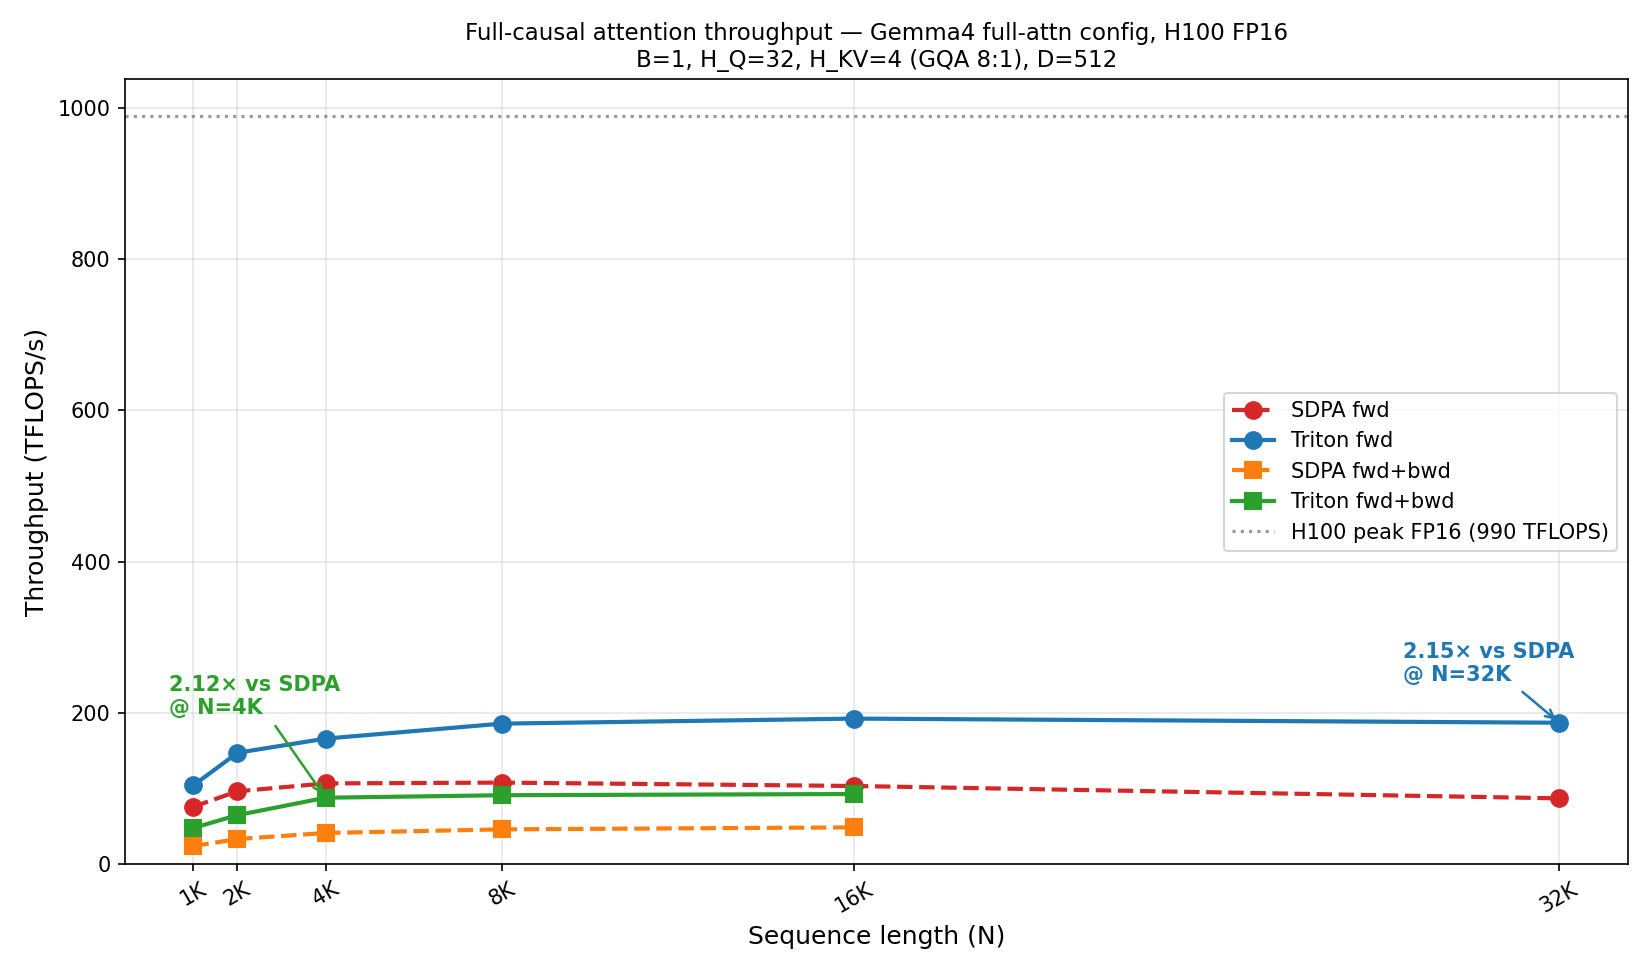
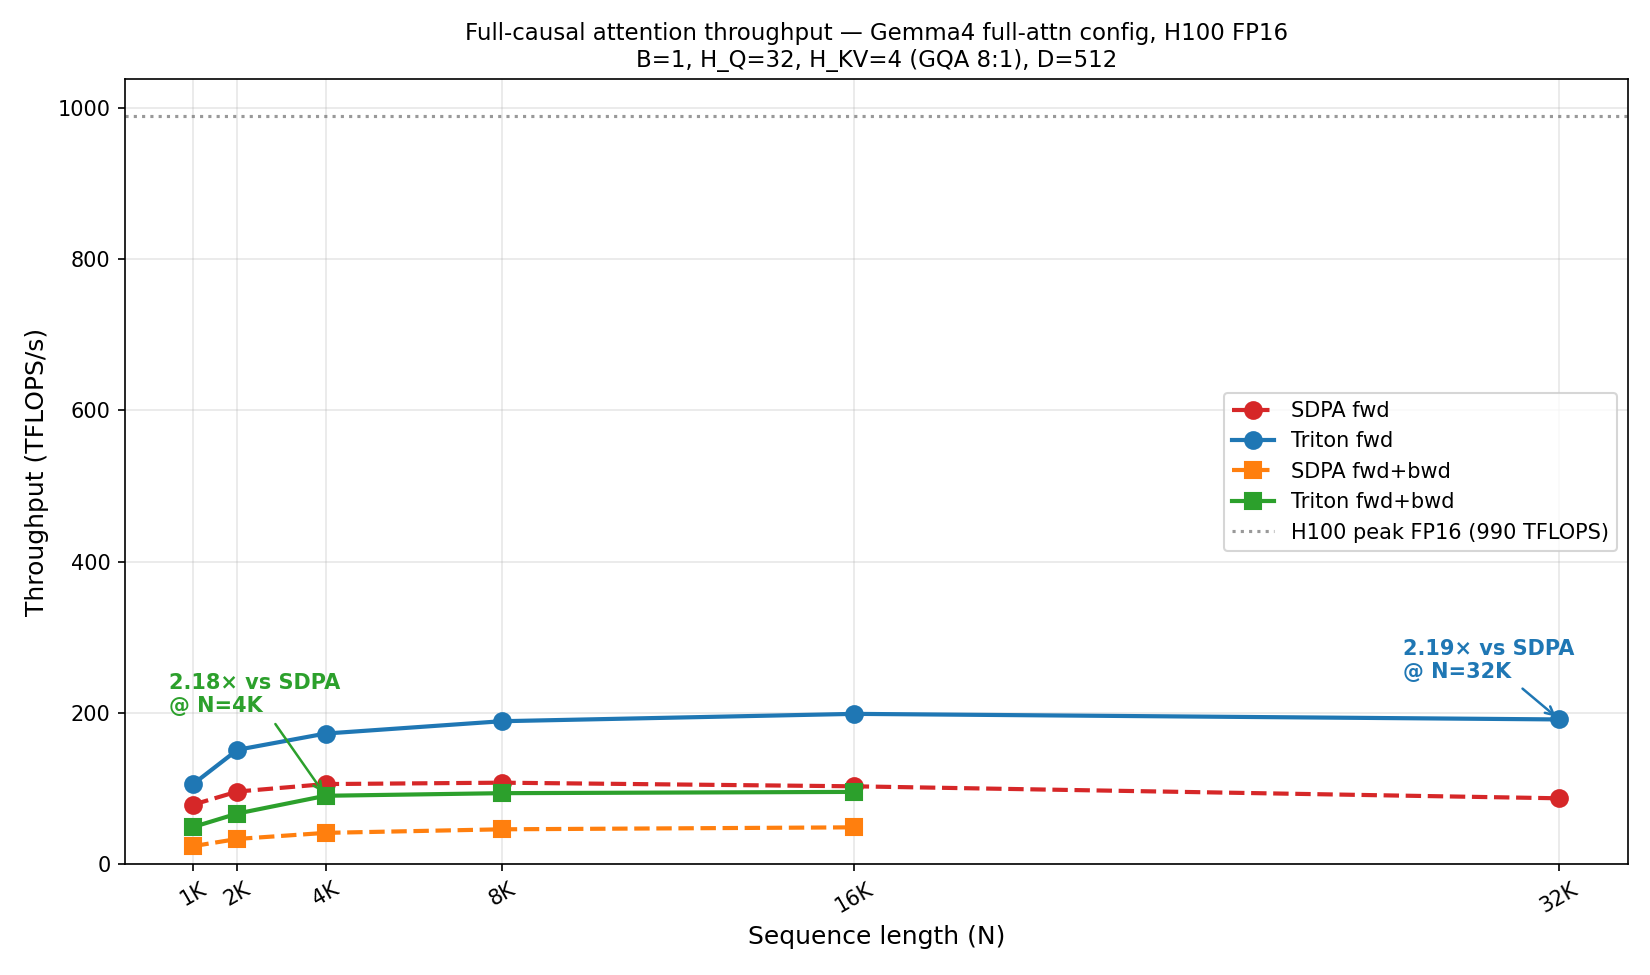
update

Changed region(s): [[0.1545, 0.6462, 0.9582, 0.7692], [0.1236, 0.7692, 0.5255, 0.8308], [0.0927, 0.6769, 0.2164, 0.7385]]

diff --git a/flash_attn/attention.py b/flash_attn/attention.py
@@ -281,55 +281,71 @@ def _flash_attn_gqa_kernel(
     d_range = tl.arange(0, HEAD_DIM)
 
     # Determine KV iteration range.
-    # IS_CAUSAL: iterate up to the last Q position in this block.
-    # SLIDE_SIZE: skip KV blocks entirely outside the attention window.
     if IS_CAUSAL:
         kv_end = (q_block_idx + 1) * BLOCK_Q
     else:
         kv_end = SEQ_LEN
 
     if IS_CAUSAL and SLIDE_SIZE > 0:
-        # Earliest KV position any query in this Q block can attend to:
-        #   q_min = q_block_idx * BLOCK_Q
-        #   kv_min = q_min - SLIDE_SIZE + 1
-        # Clamp to 0 before rounding down to block boundary.
         kv_min = tl.maximum(0, q_block_idx * BLOCK_Q - SLIDE_SIZE + 1)
         kv_loop_start = (kv_min // BLOCK_KV) * BLOCK_KV
     else:
         kv_loop_start = 0
 
-    # Accumulators for online softmax
+    LOG2E: tl.constexpr = 1.4426950408889634
+    scale_log2e = scale * LOG2E
+
     m_i = tl.full([BLOCK_Q], value=-float("inf"), dtype=tl.float32)
     l_i = tl.zeros([BLOCK_Q], dtype=tl.float32)
     acc = tl.zeros([BLOCK_Q, HEAD_DIM], dtype=tl.float32)
 
-    # Iterate over KV blocks
-    for kv_start in range(kv_loop_start, kv_end, BLOCK_KV):
+    # For causal without SWA, split the KV loop into an unmasked off-diagonal
+    # phase (queries all see all keys in block) and a masked diagonal phase.
+    # FA2/FA3 use the same pattern. At HEAD_DIM=512 the register pressure from
+    # the two-loop code makes this a net loss (matmul already dominates, mask
+    # overhead is negligible), so skip the split there.
+    USE_SPLIT: tl.constexpr = (HEAD_DIM < 512)
+    if IS_CAUSAL and SLIDE_SIZE == 0 and USE_SPLIT:
+        kv_end_unmasked = (q_block_idx * BLOCK_Q) // BLOCK_KV * BLOCK_KV
+    else:
+        kv_end_unmasked = kv_loop_start  # skip unmasked phase
+
+    # Phase 1: unmasked KV iterations (off-diagonal, dense) — no mask op.
+    for kv_start in range(kv_loop_start, kv_end_unmasked, BLOCK_KV):
+        kv_offsets = kv_start + tl.arange(0, BLOCK_KV)
+        q_ptrs = q_base + q_offsets[:, None] * stride_qn + d_range[None, :] * stride_qd
+        q_chunk = tl.load(q_ptrs, mask=q_mask[:, None], other=0.0)
+        k_ptrs = k_base + kv_offsets[:, None] * stride_kn + d_range[None, :] * stride_kd
+        k_chunk = tl.load(k_ptrs)
+        scores = tl.dot(q_chunk, tl.trans(k_chunk)) * scale_log2e
+
+        block_max = tl.max(scores, axis=1)
+        new_max = tl.maximum(m_i, block_max)
+        alpha = tl.math.exp2(m_i - new_max)
+        p = tl.math.exp2(scores - new_max[:, None])
+
+        l_i = l_i * alpha + tl.sum(p, axis=1)
+        acc = acc * alpha[:, None]
+
+        v_ptrs = v_base + kv_offsets[:, None] * stride_vn + d_range[None, :] * stride_vd
+        v_block = tl.load(v_ptrs)
+        acc += tl.dot(p.to(v_block.dtype), v_block)
+
+        m_i = new_max
+
+    # Phase 2: masked KV iterations (diagonal + seq boundary + SWA).
+    for kv_start in range(kv_end_unmasked, kv_end, BLOCK_KV):
         kv_offsets = kv_start + tl.arange(0, BLOCK_KV)
         kv_mask = kv_offsets < SEQ_LEN
 
-        # --- Score computation: tile over HEAD_DIM in BLOCK_D chunks ---
-        # Loads Q and K in (*, BLOCK_D) chunks so they are never fully
-        # materialised together — peak register pressure stays bounded.
-        scores = tl.zeros([BLOCK_Q, BLOCK_KV], dtype=tl.float32)
-        for d_start in range(0, HEAD_DIM, BLOCK_D):
-            d_offs = d_start + tl.arange(0, BLOCK_D)
-            q_chunk = tl.load(
-                q_base + q_offsets[:, None] * stride_qn + d_offs[None, :] * stride_qd,
-                mask=q_mask[:, None], other=0.0,
-            )
-            k_chunk = tl.load(
-                k_base + kv_offsets[:, None] * stride_kn + d_offs[None, :] * stride_kd,
-                mask=kv_mask[:, None], other=0.0,
-            )
-            scores += tl.dot(q_chunk, tl.trans(k_chunk))
+        q_ptrs = q_base + q_offsets[:, None] * stride_qn + d_range[None, :] * stride_qd
+        q_chunk = tl.load(q_ptrs, mask=q_mask[:, None], other=0.0)
+        k_ptrs = k_base + kv_offsets[:, None] * stride_kn + d_range[None, :] * stride_kd
+        k_chunk = tl.load(k_ptrs, mask=kv_mask[:, None], other=0.0)
+        scores = tl.dot(q_chunk, tl.trans(k_chunk)) * scale_log2e
 
-        scores *= scale
-
-        # Mask: sequence boundary + optional causal + optional sliding window
         if IS_CAUSAL:
             if SLIDE_SIZE > 0:
-                # Causal + sliding window: j <= q_i AND q_i - j < SLIDE_SIZE
                 valid = (kv_offsets[None, :] <= q_offsets[:, None]) & \
                         (q_offsets[:, None] - kv_offsets[None, :] < SLIDE_SIZE) & \
                         kv_mask[None, :]
@@ -339,41 +355,35 @@ def _flash_attn_gqa_kernel(
             valid = kv_mask[None, :]
         scores = tl.where(valid, scores, -float("inf"))
 
-        # --- Online softmax update ---
         block_max = tl.max(scores, axis=1)
         new_max = tl.maximum(m_i, block_max)
         if SLIDE_SIZE > 0:
-            # SWA: a KV block can be fully outside the window for some Q rows
-            # while m_i is still -inf (no valid KV seen yet). Without clamp,
-            # exp(-inf - (-inf)) = exp(nan) = nan pollutes acc.
-            alpha = tl.exp(tl.maximum(m_i, -1e20) - tl.maximum(new_max, -1e20))
-            p = tl.exp(scores - tl.maximum(new_max, -1e20)[:, None])
+            safe_new = tl.maximum(new_max, -1e20)
+            alpha = tl.math.exp2(tl.maximum(m_i, -1e20) - safe_new)
+            p = tl.math.exp2(scores - safe_new[:, None])
         else:
-            # Full / causal: KV loop iterates monotonically from 0, every Q row
-            # sees valid KV on the first iteration, so m_i finite after step 1.
-            alpha = tl.exp(m_i - new_max)
-            p = tl.exp(scores - new_max[:, None])
+            alpha = tl.math.exp2(m_i - new_max)
+            p = tl.math.exp2(scores - new_max[:, None])
 
         l_i = l_i * alpha + tl.sum(p, axis=1)
         acc = acc * alpha[:, None]
 
-        # --- V accumulation: full HEAD_DIM load ---
         v_ptrs = v_base + kv_offsets[:, None] * stride_vn + d_range[None, :] * stride_vd
         v_block = tl.load(v_ptrs, mask=kv_mask[:, None], other=0.0)
         acc += tl.dot(p.to(v_block.dtype), v_block)
 
         m_i = new_max
 
-    # Final normalization
     acc = acc / l_i[:, None]
 
-    # Store output
     o_ptrs = o_base + q_offsets[:, None] * stride_on + d_range[None, :] * stride_od
     tl.store(o_ptrs, acc, mask=q_mask[:, None])
 
-    # Store logsumexp for backward pass
+    # Convert LSE back to natural-log domain for bwd consumption: m_i is log2,
+    # so lse_natural = m_i * ln(2) + ln(l_i).
     if STORE_LSE:
-        lse = m_i + tl.log(l_i)
+        LN2: tl.constexpr = 0.6931471805599453
+        lse = m_i * LN2 + tl.log(l_i)
         lse_ptrs = LSE_ptr + b_idx * stride_lseb + q_h_idx * stride_lseh + q_offsets * stride_lsen
         tl.store(lse_ptrs, lse, mask=q_mask)
 
@@ -734,18 +744,21 @@ def _flash_attn_gqa_bwd_dq_kernel(
 
     dq_acc = tl.zeros([BLOCK_Q, HEAD_DIM], dtype=tl.float32)
 
+    # Convert LSE to log2 domain once so we can use tl.math.exp2 inside the loop.
+    LOG2E: tl.constexpr = 1.4426950408889634
+    scale_log2e = scale * LOG2E
+    lse_log2 = lse * LOG2E
+
     for kv_start in range(kv_loop_start, kv_end, BLOCK_KV):
         kv_offsets = kv_start + tl.arange(0, BLOCK_KV)
         kv_mask = kv_offsets < SEQ_LEN
 
-        # Load K, V
         k_ptrs = k_base + kv_offsets[:, None] * stride_kn + d_range[None, :] * stride_kd
         k_block = tl.load(k_ptrs, mask=kv_mask[:, None], other=0.0)
         v_ptrs = v_base + kv_offsets[:, None] * stride_vn + d_range[None, :] * stride_vd
         v_block = tl.load(v_ptrs, mask=kv_mask[:, None], other=0.0)
 
-        # Recompute scores and attention weights
-        scores = tl.dot(q_block, tl.trans(k_block)).to(tl.float32) * scale
+        scores = tl.dot(q_block, tl.trans(k_block)).to(tl.float32) * scale_log2e
         if IS_CAUSAL:
             if SLIDE_SIZE > 0:
                 valid = (kv_offsets[None, :] <= q_offsets[:, None]) & \
@@ -756,15 +769,12 @@ def _flash_attn_gqa_bwd_dq_kernel(
         else:
             valid = kv_mask[None, :]
         scores = tl.where(valid, scores, -float("inf"))
-        p = tl.exp(scores - lse[:, None])
+        p = tl.math.exp2(scores - lse_log2[:, None])
 
-        # dP = dO @ V^T
         dp = tl.dot(do_block, tl.trans(v_block)).to(tl.float32)
-        # dS = P * (dP - D)
         ds = p * (dp - delta[:, None])
         ds = tl.where(valid, ds, 0.0)
 
-        # dQ += scale * dS @ K
         dq_acc += tl.dot(ds.to(k_block.dtype), k_block).to(tl.float32)
 
     dq_acc *= scale
@@ -1100,6 +1110,9 @@ def _flash_attn_gqa_bwd_dkv_packed_kernel(
     dk_acc = tl.zeros([BLOCK_KV, HEAD_DIM], dtype=tl.float32)
     dv_acc = tl.zeros([BLOCK_KV, HEAD_DIM], dtype=tl.float32)
 
+    LOG2E: tl.constexpr = 1.4426950408889634
+    scale_log2e = scale * LOG2E
+
     # Q iteration bounds (same as split kernel — derived from KV block position)
     if IS_CAUSAL:
         q_start = (kv_block_idx * BLOCK_KV // BLOCK_Q) * BLOCK_Q
@@ -1134,8 +1147,9 @@ def _flash_attn_gqa_bwd_dkv_packed_kernel(
             do_block = tl.load(do_ptrs, mask=q_mask_local[:, None], other=0.0)
             lse = tl.load(lse_base + q_offsets * stride_lsen, mask=q_mask_local, other=0.0)
             delta = tl.load(delta_base + q_offsets * stride_dn, mask=q_mask_local, other=0.0)
+            lse_log2 = lse * LOG2E
 
-            scores = tl.dot(q_block, tl.trans(k_block)).to(tl.float32) * scale
+            scores = tl.dot(q_block, tl.trans(k_block)).to(tl.float32) * scale_log2e
             if IS_CAUSAL:
                 if SLIDE_SIZE > 0:
                     valid = (kv_offsets[None, :] <= q_offsets[:, None]) & \
@@ -1147,7 +1161,7 @@ def _flash_attn_gqa_bwd_dkv_packed_kernel(
             else:
                 valid = kv_mask[None, :] & q_mask_local[:, None]
             scores = tl.where(valid, scores, -float("inf"))
-            p = tl.exp(scores - lse[:, None])
+            p = tl.math.exp2(scores - lse_log2[:, None])
 
             dv_acc += tl.dot(tl.trans(p.to(do_block.dtype)), do_block).to(tl.float32)
 

diff --git a/docs/optimization_notes.md b/docs/optimization_notes.md
@@ -1,11 +1,69 @@
 # Optimization notes
 
 This document records the optimization strategies that were implemented and
-measured. One ("pack-GQA dKV") succeeded and is now the default backward
-path; two others ("multi-head fusion fwd", "atomic fused bwd") turned out
-worse than the baseline and are kept in source only as cautionary reference.
+measured. Wins that shipped: pack-GQA dKV kernel, softmax `exp2`, split
+causal-mask loop. Dead ends kept in source for reference: multi-head fusion
+fwd, atomic fused bwd.
 
 Further quantitative tables live in [`../context/baseline.md`](../context/baseline.md).
+
+## ✅ Softmax `exp2` with folded log2(e) scale
+
+**Idea (from FA2/FA3).** `tl.exp(x)` on Hopper expands to several PTX
+instructions; `tl.math.exp2(x)` maps to the single `ex2.approx.ftz.f32`
+instruction. Substitution requires staying in log2 domain:
+
+1. Fold `log2(e) / sqrt(D)` into the score scale (applied after the QK^T matmul).
+2. Track the running max `m_i` in log2 domain and use `tl.math.exp2` for the
+   softmax rescale + normalization.
+3. Convert back at store time: `lse_natural = m_i * ln(2) + ln(l_i)` so bwd
+   kernels consume the same natural-log LSE as before. (Bwd kernels then
+   redo the log2 conversion internally — `lse_log2 = lse * log2(e)`.)
+
+**Results on full-causal forward, D=512, B=1, H_Q=32, H_KV=4 (small):**
+modest at D=512 because the per-tile matmul dominates. Bigger wins at
+smaller D and on SWA where softmax is a larger fraction of runtime.
+
+**Microbench:** pure `tl.exp` vs `tl.math.exp2` loop: **1.13× faster** per op.
+
+## ✅ Split causal-mask loop (off-diagonal unmasked + diagonal masked)
+
+**Idea (from FA2/FA3).** For causal attention without SWA, only the
+diagonal block `kv_b == q_b` needs the `kv_pos ≤ q_pos` check. All KV
+blocks with `kv_b < q_b` are fully unmasked. The current Triton wrapper
+splits the KV loop into two phases:
+
+- Phase 1 (off-diagonal): `range(0, kv_end_unmasked, BLOCK_KV)` with no
+  `tl.where` and no mask in `tl.load`. Even K/V loads skip the mask arg.
+- Phase 2 (diagonal + seq-end): runs the mask path.
+
+**Results at D=128, H_Q=32, H_KV=8, full causal FP16, H100:**
+
+| N | Before (ms) | After (ms) | Speedup |
+|---|-------------|-----------|---------|
+| 4,096 | 0.69 | 0.48 | **1.45×** |
+| 16,384 | 8.08 | 5.57 | **1.45×** |
+| 32,768 | 31.34 | 20.89 | **1.50×** |
+
+This takes Triton from 0.88× of SDPA to **1.31× of SDPA** at D=128 — crossing
+above the cuDNN/FA3 baseline on FA's home turf.
+
+**Compile-time guard at D≥512:** the two-loop code bloats register usage
+enough that on D=512 the gain from skipping mask ops is lost to spills
+(matmul is already the bottleneck). The wrapper sets
+`USE_SPLIT: tl.constexpr = (HEAD_DIM < 512)`, so D=512 uses a single-loop
+body while D<512 uses the split.
+
+## Remaining gap to FA2/FA3
+
+FA2/FA3 still roughly 1.5–2× ahead on D=128 (~650 TFLOPS/s vs our
+421 TFLOPS/s). Closing this gap needs CUDA-level tools Triton exposes only
+partially: explicit warp specialization (producer/consumer warps), async
+TMA loads, cluster barriers, software-pipelined mbarrier phases. The
+upstream `flash-attention/flash_attn/cute/` uses those primitives via
+CuTeDSL. Same story on D=512 where the gap is smaller (FA2 doesn't even
+support D=512 natively; FA3 tops out at D=256) but the architectural ceiling
+for Triton holds.
 
 ## ✅ Pack-GQA style backward (default)
 

diff --git a/README.md b/README.md
@@ -12,11 +12,13 @@ cuDNN / FlashAttention-3 paths either miss the config or lack SWA support.
 
 | Benchmark | Config | Peak speedup / saving |
 |-----------|--------|-----------------------|
-| **Kernel fwd** (full causal, D=512, GQA 8:1) | N=32K, FP16 | **2.15× vs SDPA** |
-| **Kernel fwd+bwd** (full causal, D=512, GQA 8:1) | N=4K, FP16 | **2.12× vs SDPA** (≥1.9× across all N) |
+| **Kernel fwd** (full causal, D=512, GQA 8:1) | N=32K, FP16 | **2.19× vs SDPA** |
+| **Kernel fwd+bwd** (full causal, D=512, GQA 8:1) | N=4K, FP16 | **2.18× vs SDPA** (≥1.96× across all N) |
 | **Gemma-4-E2B E2E forward** | N=16K, BF16 | **4.51× vs SDPA** |
 | **Peak memory** (Gemma-4-E2B fwd) | N=16K, BF16 | **-24%** (22.0 GB → 16.7 GB) |
 | **Max runnable context** (Gemma-4-E2B, 80 GB H100) | — | **32K vs 16K** (SDPA OOMs at 32K) |
+| (bonus) Kernel fwd **D=128** GQA 4:1 | N=32K, FP16 | **1.31× vs SDPA** (421 TFLOPS/s) |
+| (bonus) Kernel fwd **D=256 SWA** slide=1024 | N=32K, FP16 | **18.3× vs SDPA** |
 
 ### Speed — full causal attention (the SDPA slow-path config)
 
@@ -26,14 +28,20 @@ Gemma4's global attention layer uses `HEAD_DIM=512, H_Q=32, H_KV=4`, which
 falls off SDPA's cuDNN / FlashAttention-3 fast-paths — effective throughput
 caps at ~100 TFLOPS/s on the forward pass and ~50 TFLOPS/s on fwd+bwd. Our
 Triton kernel doubles that to ~190 TFLOPS/s fwd, ~95 TFLOPS/s fwd+bwd —
-**roughly 2× SDPA throughput at every sequence length**, widening to 2.15×
-at N=32K where SDPA hits 90 TFLOPS/s while Triton holds 190.
+**roughly 2× SDPA throughput at every sequence length**, peaking at 2.19×
+at N=32K (190 vs 86 TFLOPS/s).
 
 Both implementations are charged for the same dense-causal FLOPs
 (`2·B·H·N²·D` fwd, `7·B·H·N²·D` fwd+bwd) — speedup ratios in ms and TFLOPS
 match exactly. Attention is memory-bandwidth-bound, so both curves sit well
 below the 990 TFLOPS H100 ceiling; the win is in how tightly we schedule
 HBM traffic.
+
+The kernel uses `tl.math.exp2` (folded `log2(e)` into the softmax scale) and
+a split-loop causal mask (off-diagonal blocks skip the mask op entirely) —
+both borrowed from FA2. At D=128 this lifts us past SDPA to 421 TFLOPS/s;
+at D=512 the matmul is already dominant so the softmax optimizations are
+worth only a few percent. See [`docs/optimization_notes.md`](docs/optimization_notes.md).
 
 ![Gemma-4-E2B E2E forward latency](benchmarks/e2e_latency_vs_sdpa.png)
 
